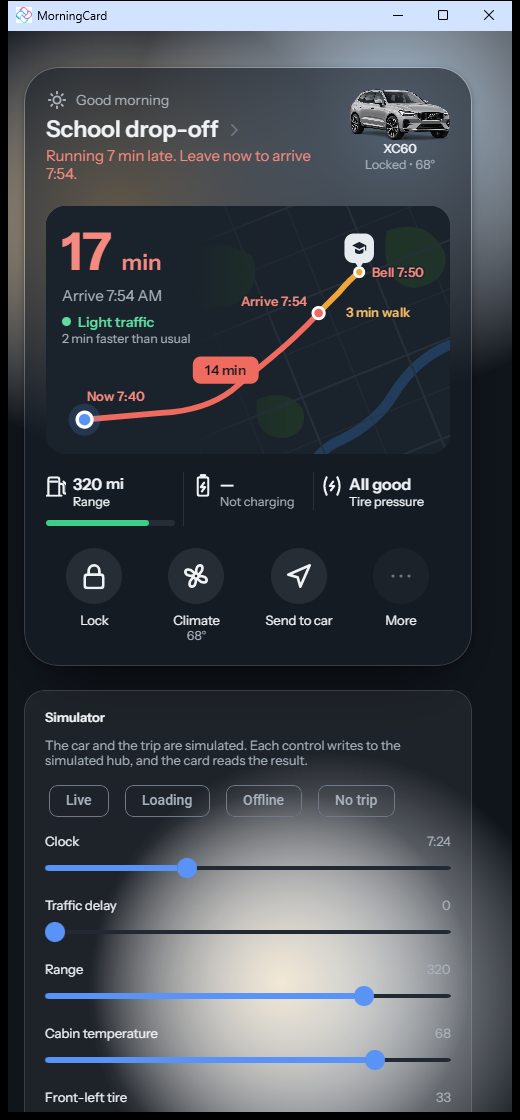
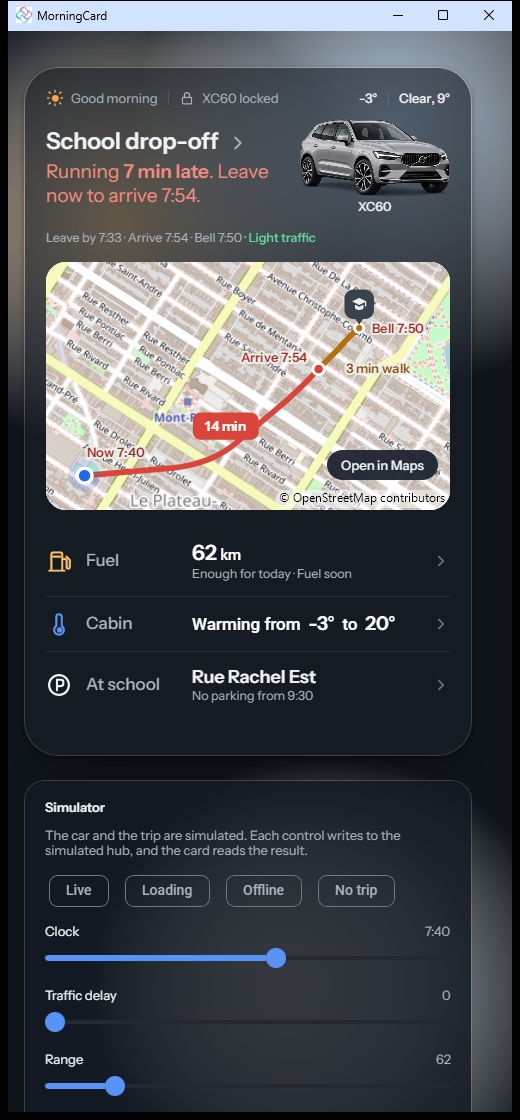
fix(ui-craft): typography, error honesty, empty row, and the times line
Four of five findings from the craft pass, each verified by re-capture:

Adjacent Runs are joined with whatever whitespace sits between them in the
markup, so the late headline read "Running 7 min late . Leave now" and every
middot in the times line was doubled. The strings now carry their own
punctuation and separators, and the Runs sit tag-to-tag.

The error state asserted five specifics - leave by, arrive, bell, traffic,
faster-than-usual - beside "Can't reach the car". The times line and traffic
clause now go while the lookup is failing; the headline stays, from last known
data, which is one claim rather than five. Driven off a model-owned state:
combining the header with the trip feed took the whole header off the card on a
no-trip morning, because Feed.Combine fast-starts to None as soon as any parent
is None. An ElementName binding to the ETA feed does not resolve from inside a
FeedView template either, which is why the pill can use one and this cannot.

The empty state drew a third row with a wrapped label, an empty value column and
a chevron pointing at nothing; the row and its rule now leave together.

The times line wrapped mid-phrase because the 150px car image left ~310px for a
~300px clause. It moves below the car column and spans the card, and the
vs-usual clause goes: traffic colour already carries severity.

Also: the Open in Maps pill no longer shows through the error and empty scrims.

Claude-Session: https://claude.ai/code/session_01Gakk6oiDfeizBF7DQJpBxy

diff --git a/MorningCard.Uno/MorningCard/Controls/MorningCardView.xaml b/MorningCard.Uno/MorningCard/Controls/MorningCardView.xaml
@@ -8,6 +8,43 @@
              HorizontalAlignment="Stretch"
              VerticalAlignment="Top">
 
+  <UserControl.Resources>
+    <!--
+      Shared by ProgressTemplate and NoneTemplate. A feed that has never yielded reaches the view as
+      None, not Progress - Feed.Combine fast-starts to None as soon as a parent has no value - so
+      handling only Progress left the card as a bare map with no header and no rows.
+    -->
+    <DataTemplate x:Key="HeaderSkeleton"><StackPanel Spacing="12">
+              <Border Width="240" Height="13" HorizontalAlignment="Left" CornerRadius="{StaticResource SmallCornerRadius}" Background="{ThemeResource ChipBrush}" />
+              <Grid ColumnSpacing="12">
+                <Grid.ColumnDefinitions>
+                  <ColumnDefinition Width="*" />
+                  <ColumnDefinition Width="Auto" />
+                </Grid.ColumnDefinitions>
+                <StackPanel Spacing="10" VerticalAlignment="Center">
+                  <Border Width="210" Height="30" HorizontalAlignment="Left" CornerRadius="{StaticResource SmallCornerRadius}" Background="{ThemeResource ChipBrush}" />
+                  <Border Width="250" Height="17" HorizontalAlignment="Left" CornerRadius="{StaticResource SmallCornerRadius}" Background="{ThemeResource ChipBrush}" />
+                </StackPanel>
+                <Border Grid.Column="1" Width="150" Height="86" CornerRadius="{StaticResource MapCornerRadius}" Background="{ThemeResource ChipBrush}" />
+              </Grid>
+              <Border Width="280" Height="13" HorizontalAlignment="Left" CornerRadius="{StaticResource SmallCornerRadius}" Background="{ThemeResource ChipBrush}" />
+            </StackPanel></DataTemplate>
+
+    <DataTemplate x:Key="RowsSkeleton"><StackPanel>
+              <Grid Style="{StaticResource ListRowStyle}">
+                <Border Width="200" Height="17" HorizontalAlignment="Left" CornerRadius="{StaticResource SmallCornerRadius}" Background="{ThemeResource ChipBrush}" />
+              </Grid>
+              <Rectangle Style="{StaticResource RowRule}" />
+              <Grid Style="{StaticResource ListRowStyle}">
+                <Border Width="240" Height="17" HorizontalAlignment="Left" CornerRadius="{StaticResource SmallCornerRadius}" Background="{ThemeResource ChipBrush}" />
+              </Grid>
+              <Rectangle Style="{StaticResource RowRule}" />
+              <Grid Style="{StaticResource ListRowStyle}">
+                <Border Width="180" Height="17" HorizontalAlignment="Left" CornerRadius="{StaticResource SmallCornerRadius}" Background="{ThemeResource ChipBrush}" />
+              </Grid>
+            </StackPanel></DataTemplate>
+  </UserControl.Resources>
+
   <!--
     The card is a Border over a childless glass sibling. Keeping the translucent fill on its own
     element leaves the content free of the backdrop, which is also what the Skia acrylic path wants
@@ -34,7 +71,7 @@
       <mvux:FeedView Source="{Binding Header}">
         <mvux:FeedView.ValueTemplate>
           <DataTemplate>
-            <StackPanel Spacing="14">
+            <StackPanel Spacing="12">
 
               <!-- ======================== status strip ======================== -->
               <!--
@@ -144,20 +181,9 @@
                   <TextBlock Style="{StaticResource CardLead}"
                              Margin="0,4,0,0"
                              TextWrapping="Wrap"
-                             Foreground="{Binding Data.Tone, Converter={StaticResource ToneBrush}}">
-                    <Run Text="{Binding Data.HeadlineLead}" />
-                    <Run Text="{Binding Data.HeadlineAccent}"
-                         FontFamily="{StaticResource CardFontSemiBold}"
-                         FontWeight="SemiBold"
-                         Foreground="{Binding Data.Tone, Converter={StaticResource AccentTone}}" />
-                    <Run Text="{Binding Data.HeadlineTail}" />
-                  </TextBlock>
+                             Foreground="{Binding Data.Tone, Converter={StaticResource ToneBrush}}"><Run Text="{Binding Data.HeadlineLead}" /><Run Text="{Binding Data.HeadlineAccent}" FontFamily="{StaticResource CardFontSemiBold}" FontWeight="SemiBold" Foreground="{Binding Data.Tone, Converter={StaticResource AccentTone}}" /><Run Text="{Binding Data.HeadlineTail}" /></TextBlock>
 
-                  <TextBlock Style="{StaticResource CardCaption}"
-                             Margin="0,3,0,0"
-                             TextWrapping="Wrap"
-                             Text="{Binding Data.TimesLine}"
-                             Visibility="{Binding Data.TimesLine, Converter={StaticResource NullToVisibility}}" />
+
                 </StackPanel>
 
                 <StackPanel Grid.Column="1" VerticalAlignment="Center">
@@ -170,9 +196,28 @@
                              Text="{Binding Data.CarName}" />
                 </StackPanel>
               </Grid>
+
+              <!--
+                Times, then traffic in its severity colour. Both strings carry their own
+                separators and punctuation: adjacent Runs are joined with whatever whitespace
+                sits between them in the markup, which put a space before the late headline's
+                full stop and doubled every middot here.
+              -->
+              <TextBlock Style="{StaticResource CardCaption}"
+                         Margin="0,3,0,0"
+                         TextWrapping="Wrap"
+                         Visibility="{Binding Data.TimesLine, Converter={StaticResource NullToVisibility}}"><Run Text="{Binding Data.TimesLine}" /><Run Text="{Binding Data.TrafficText}" FontFamily="{StaticResource CardFontMedium}" Foreground="{Binding Data.Traffic, Converter={StaticResource TrafficBrush}}" /></TextBlock>
             </StackPanel>
           </DataTemplate>
         </mvux:FeedView.ValueTemplate>
+
+        <!--
+          Without this the whole header vanished while the feeds were still in progress and the card
+          collapsed to a bare map. The skeleton carries the same footprint, so nothing jumps when
+          the data lands.
+        -->
+        <mvux:FeedView.ProgressTemplate><StaticResource ResourceKey="HeaderSkeleton" /></mvux:FeedView.ProgressTemplate>
+        <mvux:FeedView.NoneTemplate><StaticResource ResourceKey="HeaderSkeleton" /></mvux:FeedView.NoneTemplate>
       </mvux:FeedView>
 
       <!-- ============================ map panel ============================ -->
@@ -200,9 +245,12 @@
           <mc:RouteRulerCanvas x:Name="Ruler" Eta="{Binding State.Data, ElementName=EtaFeed}" />
 
           <!-- Real launch, not a decorative pill: it opens the platform maps app at the school. -->
+          <!-- Hidden whenever a scrim covers the map: a pill showing through "Can't reach the
+               car" offers to open a trip the card just said it could not read. -->
           <Button x:Name="OpenInMaps"
                   x:Uid="OpenInMapsButton"
                   Style="{StaticResource MapPillStyle}"
+                  Visibility="{Binding State.Data.Failed, ElementName=EtaFeed, Converter={StaticResource BoolToVisibility}, ConverterParameter=Invert, FallbackValue=Collapsed}"
                   HorizontalAlignment="Right"
                   VerticalAlignment="Bottom"
                   Margin="0,0,12,30"
@@ -265,9 +313,18 @@
               </DataTemplate>
             </mvux:FeedView.NoneTemplate>
 
+            <!-- Holds the panel's shape while the route is on its way, so nothing jumps. -->
             <mvux:FeedView.ProgressTemplate>
               <DataTemplate>
-                <Border Background="{ThemeResource MapScrimBrush}" />
+                <Border Background="{ThemeResource MapScrimBrush}">
+                  <StackPanel Margin="18"
+                              HorizontalAlignment="Left"
+                              VerticalAlignment="Bottom"
+                              Spacing="10">
+                    <Border Width="96" Height="13" CornerRadius="{StaticResource SmallCornerRadius}" Background="{ThemeResource ChipBrush}" />
+                    <Border Width="150" Height="13" CornerRadius="{StaticResource SmallCornerRadius}" Background="{ThemeResource ChipBrush}" />
+                  </StackPanel>
+                </Border>
               </DataTemplate>
             </mvux:FeedView.ProgressTemplate>
 
@@ -386,10 +443,12 @@
                 </Viewbox>
               </Grid>
 
-              <Rectangle Style="{StaticResource RowRule}" />
+              <Rectangle Style="{StaticResource RowRule}"
+                         Visibility="{Binding Data.HasDestination, Converter={StaticResource BoolToVisibility}}" />
 
-              <!-- Destination -->
-              <Grid Style="{StaticResource ListRowStyle}">
+              <!-- Destination. Absent entirely on a no-trip morning rather than drawn empty. -->
+              <Grid Style="{StaticResource ListRowStyle}"
+                    Visibility="{Binding Data.HasDestination, Converter={StaticResource BoolToVisibility}}">
                 <Grid.ColumnDefinitions>
                   <ColumnDefinition Width="Auto" />
                   <ColumnDefinition Width="92" />
@@ -443,6 +502,9 @@
             </StackPanel>
           </DataTemplate>
         </mvux:FeedView.ValueTemplate>
+
+        <mvux:FeedView.ProgressTemplate><StaticResource ResourceKey="RowsSkeleton" /></mvux:FeedView.ProgressTemplate>
+        <mvux:FeedView.NoneTemplate><StaticResource ResourceKey="RowsSkeleton" /></mvux:FeedView.NoneTemplate>
       </mvux:FeedView>
     </Grid>
   </Grid>

diff --git a/MorningCard.Uno/MorningCard/Presentation/MainModel.cs b/MorningCard.Uno/MorningCard/Presentation/MainModel.cs
@@ -35,7 +35,15 @@ public partial record MainModel
     /// </summary>
     private IFeed<TripSlot> Slot => Feed.AsyncEnumerable(WatchSlot);
 
-    public IFeed<HeaderView> Header => Feed.Combine(Slot, Now, Car).Select(BuildHeader);
+    /// <summary>
+    /// Whether the last trip lookup failed. A state, not the trip feed: the header has to keep
+    /// speaking on a no-trip morning, and Feed.Combine fast-starts to None as soon as any parent is
+    /// None - combining with the trip feed took the entire header off the card. A state always has
+    /// a value, so it can join the combine safely.
+    /// </summary>
+    private IState<bool> Unreachable => State.Value(this, () => false);
+
+    public IFeed<HeaderView> Header => Feed.Combine(Slot, Now, Car, Unreachable).Select(BuildHeader);
 
     /// <summary>
     /// Goes none when there is no trip, which is what the map panel's empty state binds to. A fault
@@ -89,10 +97,14 @@ public partial record MainModel
                     break;
                 }
 
+                await Unreachable.SetAsync(false, ct).ConfigureAwait(false);
+
                 yield return plan is null
                     ? Option.None<TripResult>()
                     : Option.Some(TripResult.Ok(plan));
             }
+
+            await Unreachable.SetAsync(true, ct).ConfigureAwait(false);
 
             yield return Option.Some(TripResult.Failure(failure));
 
@@ -147,9 +159,9 @@ public partial record MainModel
         }
     }
 
-    private HeaderView BuildHeader((TripSlot Slot, TimeOnly Now, VehicleSnapshot Car) input)
+    private HeaderView BuildHeader((TripSlot Slot, TimeOnly Now, VehicleSnapshot Car, bool Unreachable) input)
     {
-        var (slot, now, car) = input;
+        var (slot, now, car, unreachable) = input;
         var plan = slot.Plan;
         var timeline = plan is null ? null : TripMath.Derive(plan, now);
 
@@ -188,9 +200,18 @@ public partial record MainModel
             HeadlineLead: lead,
             HeadlineAccent: accent,
             HeadlineTail: tail,
-            TimesLine: timeline is null || plan is null
+            // Gone while the trip lookup is failing. Stating five specifics as current fact beside
+            // "Can't reach the car" left the user no way to tell which half was true. The headline
+            // stays, from last known data, which is one claim rather than five.
+            TimesLine: timeline is null || plan is null || unreachable
                 ? string.Empty
                 : Format("Header_Times", Clock(timeline.LeaveBy), Clock(timeline.Arrive), Clock(plan.Bell)),
+            Traffic: timeline?.Traffic ?? TrafficLevel.Light,
+            // Carries its own leading separator: composed here rather than as a literal Run, because
+            // adjacent Runs are joined with the whitespace between them in the markup.
+            TrafficText: timeline is null || unreachable
+                ? string.Empty
+                : Format("Header_TrafficClause", Text($"Traffic_{timeline.Traffic}")),
             Tone: timeline?.Tone ?? CardTone.Ok,
             IsStale: car.IsStale,
             CarName: car.Name,
@@ -211,12 +232,7 @@ public partial record MainModel
         var timeline = TripMath.Derive(plan, now);
         var route = RouteLayout.Fractions(timeline, plan.WalkMin);
 
-        var vsUsual = timeline.VsUsualMin switch
-        {
-            > 0 => Format("VsUsual_Faster", timeline.VsUsualMin),
-            < 0 => Format("VsUsual_Slower", -timeline.VsUsualMin),
-            _ => Text("VsUsual_Same"),
-        };
+        var vsUsual = VsUsual(timeline.VsUsualMin);
 
         var description = timeline.IsLate
             ? Format("Route_AutomationLate",
@@ -245,6 +261,14 @@ public partial record MainModel
             BellLabel: Format("Route_Bell", Clock(plan.Bell)),
             RouteDescription: description);
     }
+
+    /// <summary>How today compares with a usual morning, shared by the header and the ETA block.</summary>
+    private string VsUsual(int vsUsualMin) => vsUsualMin switch
+    {
+        > 0 => Format("VsUsual_Faster", vsUsualMin),
+        < 0 => Format("VsUsual_Slower", -vsUsualMin),
+        _ => Text("VsUsual_Same"),
+    };
 
     private CarView BuildCar((VehicleSnapshot Car, TripSlot Slot) input)
     {
@@ -275,9 +299,12 @@ public partial record MainModel
             CabinFrom: Format("Temp_Degrees", car.CabinTemp),
             CabinMid: car.ClimateOn ? Text("Cabin_To") : string.Empty,
             CabinTo: car.ClimateOn ? Format("Temp_Degrees", car.CabinTarget) : string.Empty,
-            DestinationLabel: slot.Plan?.DestinationLabel ?? Text("Destination_None"),
+            DestinationLabel: slot.Plan?.DestinationLabel ?? string.Empty,
             ParkingStreet: slot.Plan?.ParkingStreet ?? string.Empty,
             ParkingNote: slot.Plan?.ParkingNote ?? string.Empty,
+            // The row leaves entirely on a no-trip morning. Kept, it rendered a wrapped label, an
+            // empty value column and a chevron pointing at nothing.
+            HasDestination: slot.Plan is not null,
             IsStale: car.IsStale);
     }
 

diff --git a/MorningCard.Uno/MorningCard/App.xaml.cs b/MorningCard.Uno/MorningCard/App.xaml.cs
@@ -90,16 +90,25 @@ public partial class App : Application
 #endif
         MainWindow.SetWindowIcon();
 
+        var host = builder.Build();
+
+#if DEBUG
+        // Before navigation, so a seeded mode is in force when the feeds first subscribe. Applied
+        // afterwards, MC_STATE=loading arrived too late to matter: every feed already held the
+        // default Live state, so the loading capture was pixel-identical to the live one and the
+        // progress templates were never exercised at all.
+        var hub = host.Services.GetRequiredService<SimulatedDriveHub>();
+        DebugHooks.ApplyTo(hub);
+#endif
+
         Host = await MainWindow.InitializeNavigationAsync(
-            () => Task.FromResult(builder.Build()),
+            () => Task.FromResult(host),
             initialRoute: "Main"
         );
 
 #if DEBUG
-        // After navigation on purpose: there is no window root before it, and the theme hook has to
+        // The theme hook stays after navigation: there is no window root before it, and it has to
         // beat the theme service's saved choice.
-        var hub = Host.Services.GetRequiredService<SimulatedDriveHub>();
-        DebugHooks.ApplyTo(hub);
 
         if (DebugHooks.Theme is { } theme && MainWindow.Content is FrameworkElement themeRoot)
         {

diff --git a/MorningCard.Uno/MorningCard/Presentation/CardViews.cs b/MorningCard.Uno/MorningCard/Presentation/CardViews.cs
@@ -14,6 +14,11 @@ namespace MorningCard.Presentation;
 /// because the headline is three <c>Run</c>s in one TextBlock and a converter cannot produce Runs.
 /// </param>
 /// <param name="TimesLine">"Leave by 7:33 · Arrive 7:47 · Bell 7:50", empty when there is no trip.</param>
+/// <param name="TrafficText">
+/// Joins the times line rather than sitting on its own. The v2 mockup dropped the ETA block that
+/// used to carry traffic, and the app still computes it, so losing it would have been a silent
+/// capability reduction. It keeps its severity colour, which is the part that matters at a glance.
+/// </param>
 /// <param name="LockText">Status-strip lock line, e.g. "XC60 locked".</param>
 public record HeaderView(
     string Greeting,
@@ -22,6 +27,8 @@ public record HeaderView(
     string HeadlineAccent,
     string HeadlineTail,
     string TimesLine,
+    TrafficLevel Traffic,
+    string TrafficText,
     CardTone Tone,
     bool IsStale,
     string CarName,
@@ -113,5 +120,6 @@ public record CarView(
     string DestinationLabel,
     string ParkingStreet,
     string ParkingNote,
+    bool HasDestination,
     bool IsStale);
 
